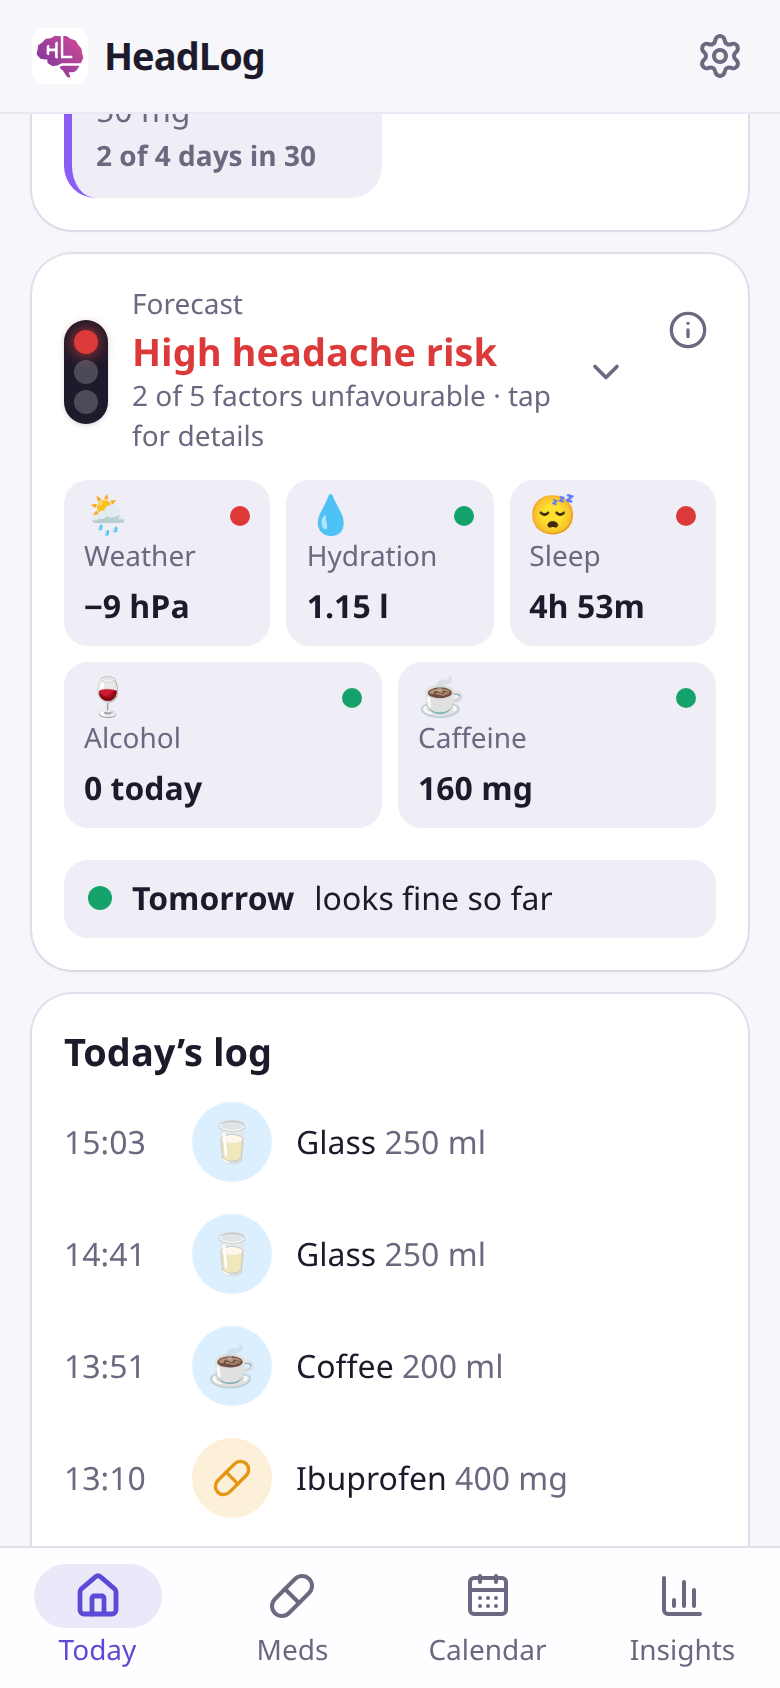
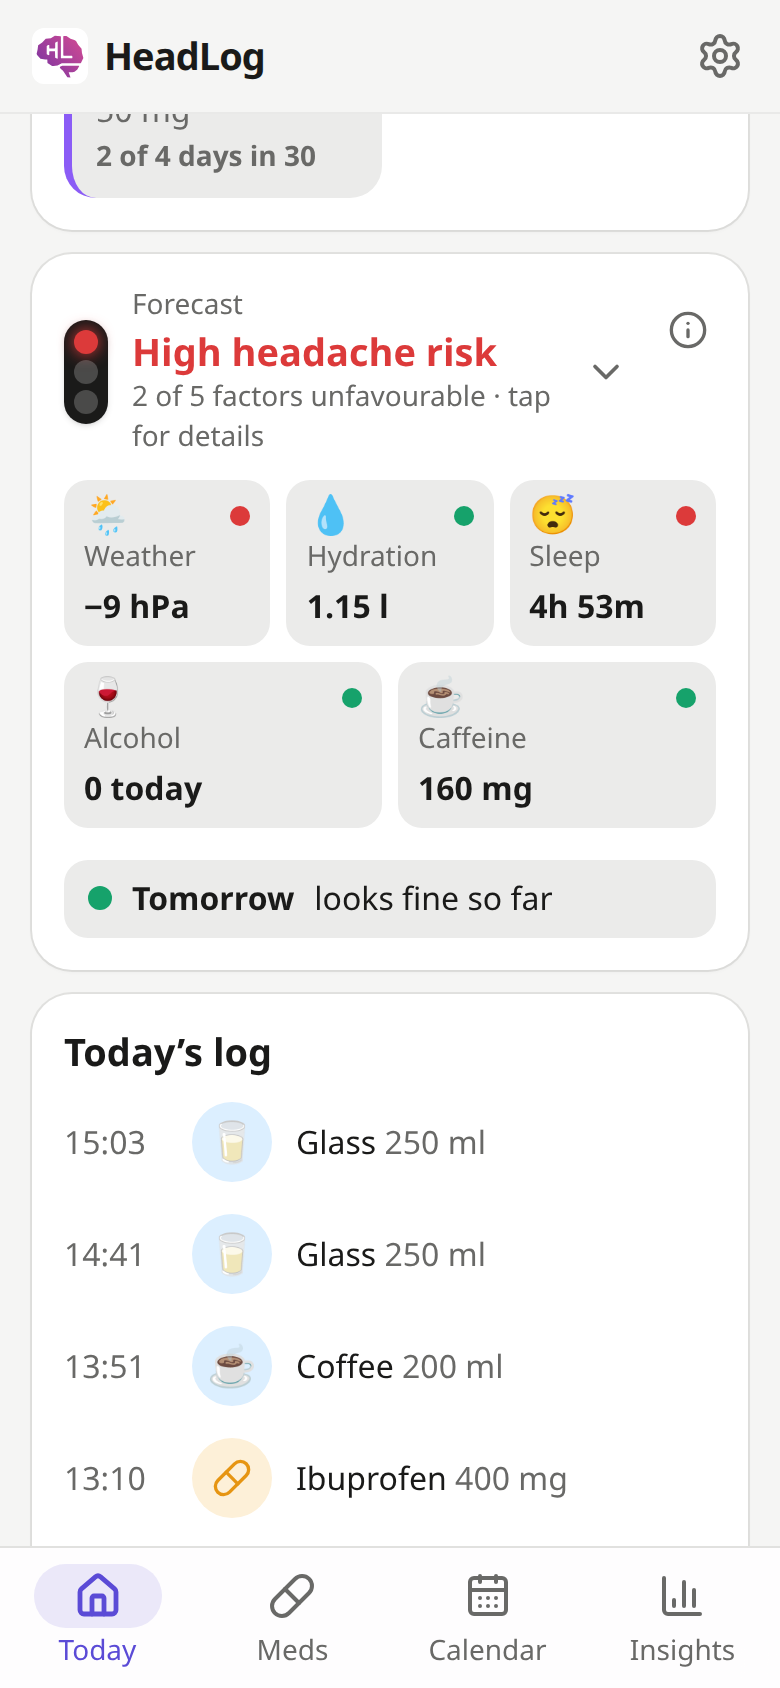
Switch to graphite greys with a violet accent (#102)

diff --git a/src/app.css b/src/app.css
@@ -3,12 +3,12 @@
 @custom-variant dark (&:where(.dark, .dark *));
 
 @theme {
-  --color-bg: #f7f6fb;
+  --color-bg: #f5f5f4;
   --color-surface: #ffffff;
-  --color-surface-2: #efedf6;
-  --color-fg: #1d1a2b;
-  --color-muted: #6c6880;
-  --color-line: #e3e0ee;
+  --color-surface-2: #ebebea;
+  --color-fg: #1a1a19;
+  --color-muted: #696967;
+  --color-line: #e1e1df;
   --color-primary: #5b4bd6;
   --color-primary-fg: #ffffff;
   --color-pain: #e2466b;
@@ -40,14 +40,14 @@
 }
 
 .dark {
-  --color-bg: #14121c;
-  --color-surface: #1e1b29;
-  --color-surface-2: #2a2638;
-  --color-fg: #eeecf6;
-  --color-muted: #a19cb6;
-  --color-line: #322e42;
+  --color-bg: #0e0e0e;
+  --color-surface: #191919;
+  --color-surface-2: #252525;
+  --color-fg: #f0f0ef;
+  --color-muted: #a1a19f;
+  --color-line: #2d2d2d;
   --color-primary: #8d80f2;
-  --color-primary-fg: #14121c;
+  --color-primary-fg: #121212;
   --color-pain: #f2648a;
   --color-pain-soft: #44202c;
   --color-med: #f2ad3c;

diff --git a/src/lib/ui.svelte.ts b/src/lib/ui.svelte.ts
@@ -93,7 +93,7 @@ export function closeTopSheet(): boolean {
 export function applyTheme(theme: Theme) {
   const dark = theme === 'dark' || (theme === 'system' && matchMedia('(prefers-color-scheme: dark)').matches);
   document.documentElement.classList.toggle('dark', dark);
-  document.querySelector('meta[name="theme-color"]')?.setAttribute('content', dark ? '#14121c' : '#f7f6fb');
+  document.querySelector('meta[name="theme-color"]')?.setAttribute('content', dark ? '#0e0e0e' : '#f5f5f4');
 }
 
 /** Value for an `<input type="datetime-local">`. */

diff --git a/capacitor.config.ts b/capacitor.config.ts
@@ -4,7 +4,7 @@ const config: CapacitorConfig = {
   appId: 'de.tillraab.headlog',
   appName: 'HeadLog',
   webDir: 'build',
-  backgroundColor: '#f7f6fb',
+  backgroundColor: '#f5f5f4',
   plugins: {
     SystemBars: {
       insetsHandling: 'css'

diff --git a/CHANGELOG.md b/CHANGELOG.md
@@ -2,6 +2,10 @@
 
 ## [Unreleased]
 
+### Changed
+
+- New look: neutral graphite greys instead of the lavender tint, in light and dark, with violet kept for buttons, the active tab and highlights. Headache red, medication amber, water blue and the traffic light are unchanged. The splash screen uses the new background.
+
 ## [0.28.0] - 2026-11-09
 
 ### Changed
